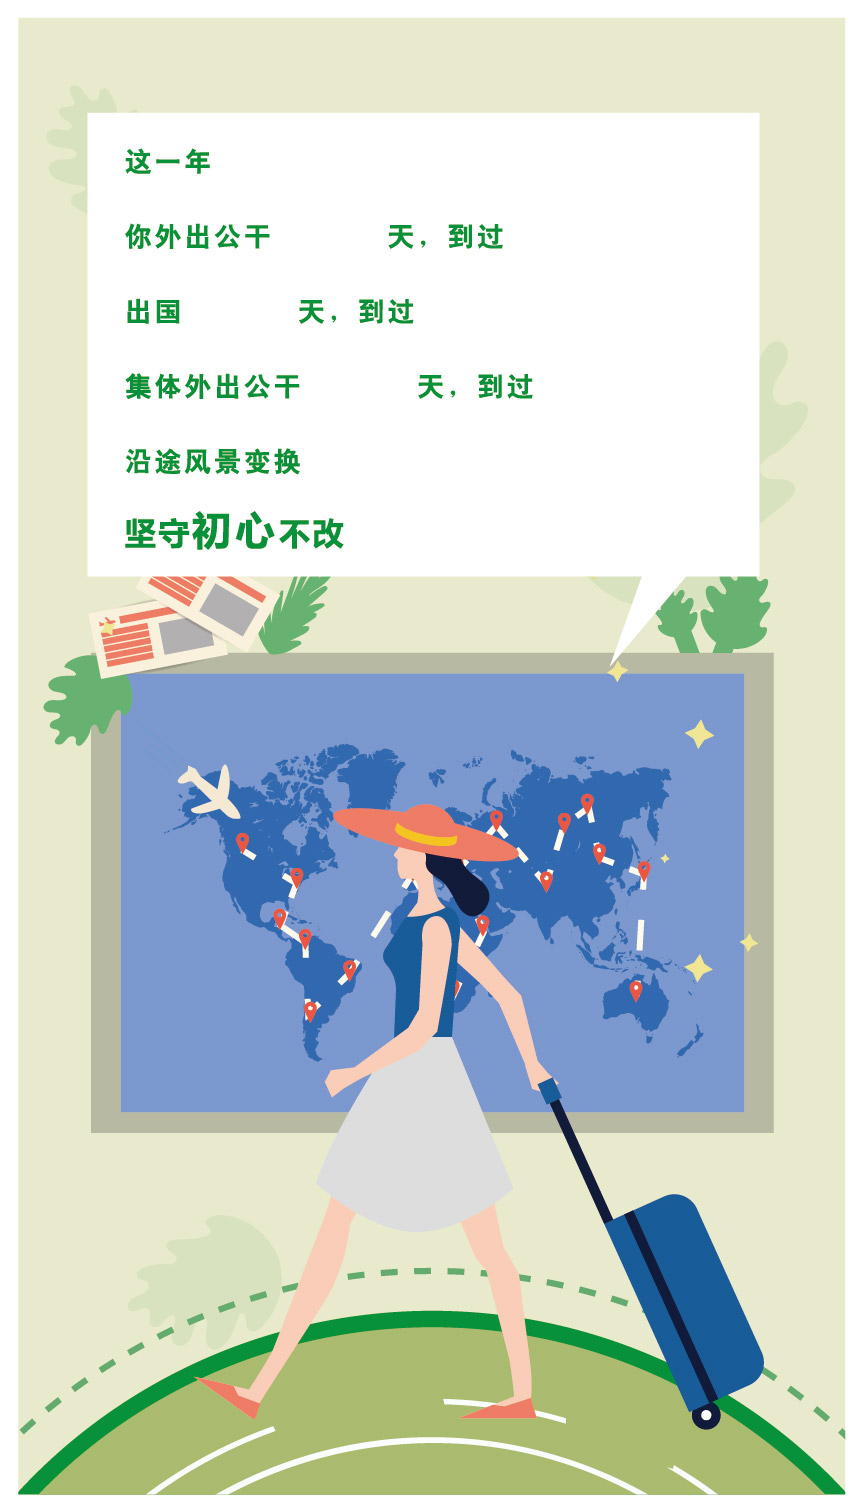
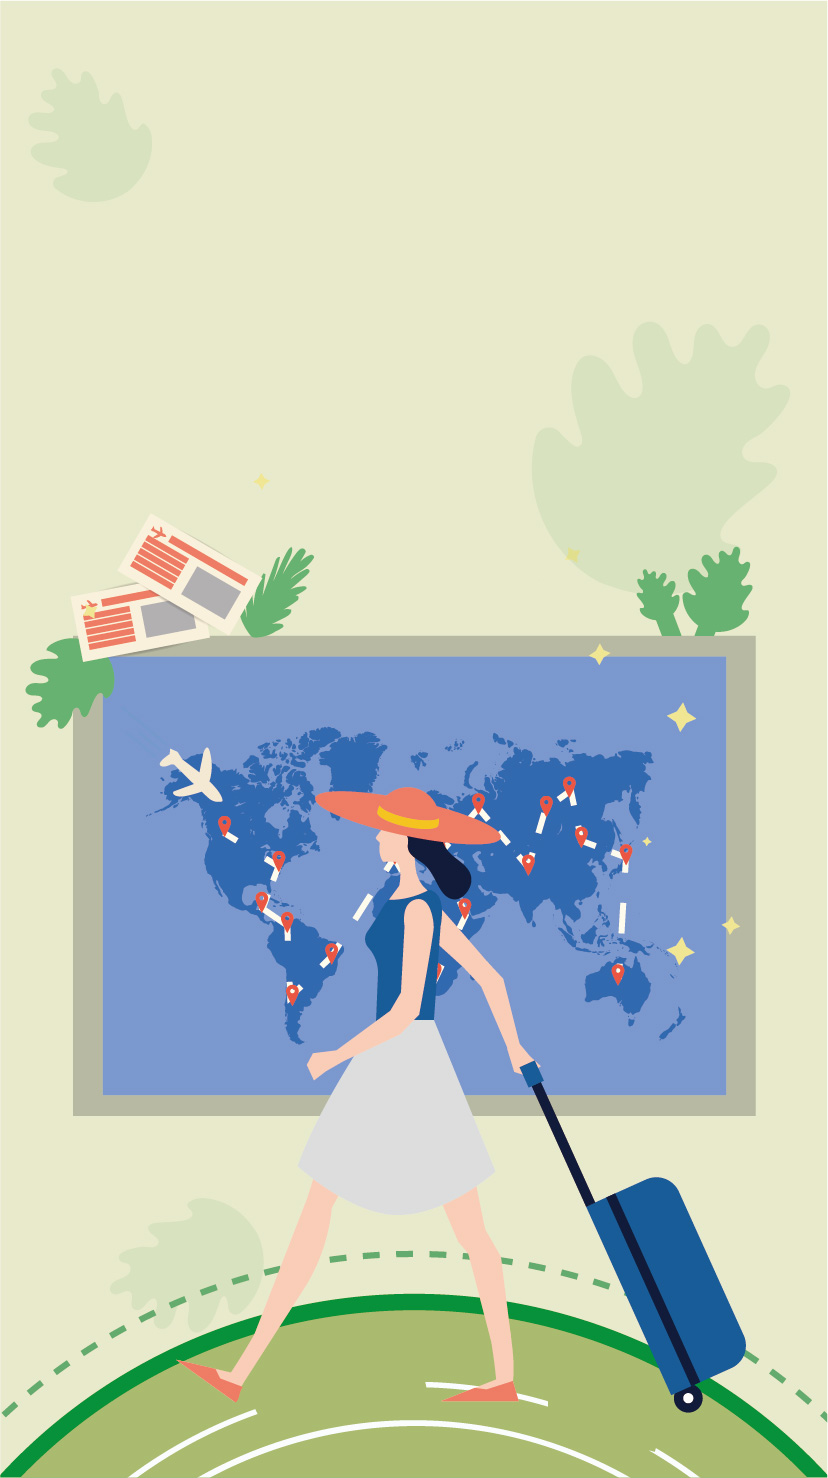
第三页面

diff --git a/public/stylesheets/style.css b/public/stylesheets/style.css
@@ -21,6 +21,20 @@ body {
     color: #4173ba;
   }
 
+  .color3{
+    color:#138c3c
+  }
+
+  .line1{
+    height: 100px;
+    line-height: 100px;
+  }
+
+  .line2{
+    height: 75px;
+    line-height: 75px;
+  }
+
 .home .button{
   width: 20%;
   position: absolute;
@@ -31,11 +45,12 @@ body {
 
 .step1 .desc{
   position: absolute;
-  top: 10%;
+  top: 150px;
   left: 5%;
   width: 90%;
   background: #FFF;
-
+  min-height: 500px;
+  max-height: 700px;
   font-family: 'SimHei';
   font-size: 3em;
   z-index: 1;
@@ -45,8 +60,7 @@ body {
 .step1 .desc .line{
   margin-left: 5%;
   width: 100%;
-  height: 100px;
-  line-height: 100px;
+
 }
 
 .step1 .desc .line .w{
@@ -67,5 +81,5 @@ body {
   height: 105px;
   position: absolute;
   right: 12%;
-  top: 32%;
+  top: 645px;
 }

diff --git a/routes/index.js b/routes/index.js
@@ -17,7 +17,18 @@ router.get('/step2', function(req, res, next) {
 });
 
 router.get('/step3', function(req, res, next) {
-  res.render('step3', { title: 'Express' });
+  var user = {};
+  res.render('step3',
+    {
+      title: 'Express',
+      outDay: '4',
+      outAddr: '苏州，上海，北京',
+      abroadDay: '5',
+      abroadAddr: '新加坡，印尼，额罗搜',
+      jtDay: '7',
+      jdAddr: '英国，法国，中国',
+    }
+  );
 });
 
 router.get('/step4', function(req, res, next) {
